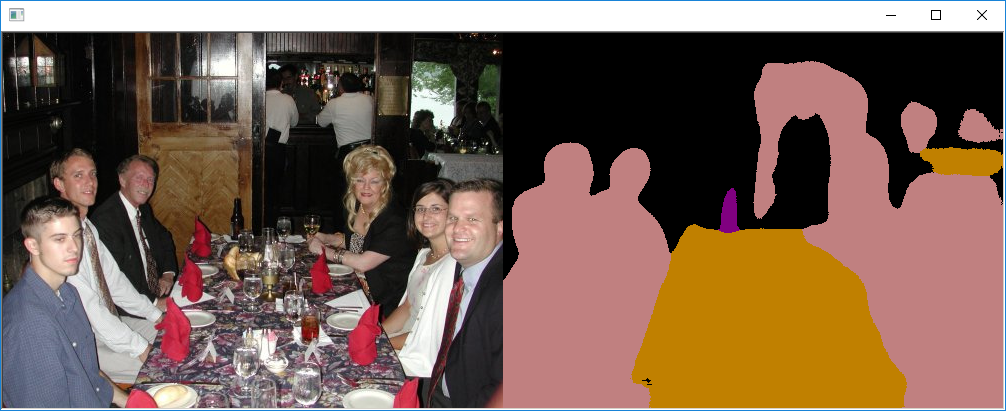
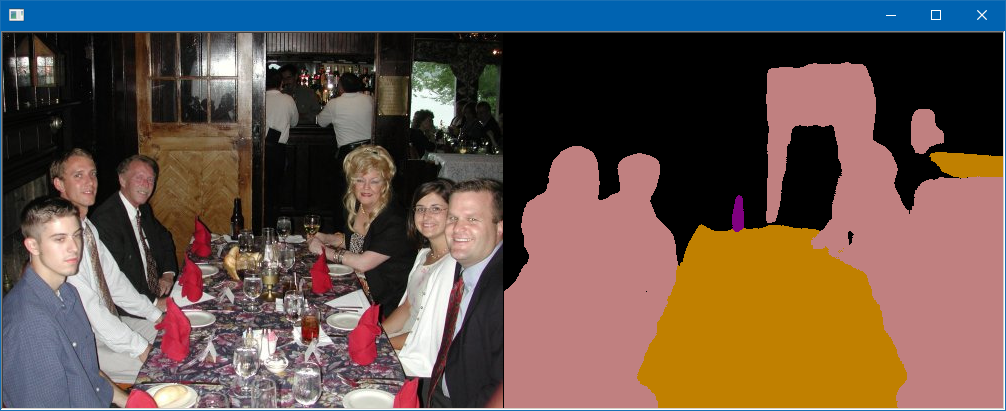
feat: modify sample for 19.17

diff --git a/examples/DnnSemanticSegmentation/Program.cs b/examples/DnnSemanticSegmentation/Program.cs
@@ -14,6 +14,8 @@ namespace DnnSemanticSegmentation
     internal class Program
     {
 
+        private const string SemanticSegmentationNetFilename = "semantic_segmentation_voc2012net_v2.dnn";
+
         public class Voc2012Class
         {
 
@@ -91,17 +93,17 @@ namespace DnnSemanticSegmentation
                 Console.WriteLine("You call this program like this: ");
                 Console.WriteLine("./dnn_semantic_segmentation_train_ex /path/to/images");
                 Console.WriteLine();
-                Console.WriteLine("You will also need a trained 'semantic_segmentation_voc2012net.dnn' file.");
+                Console.WriteLine($"You will also need a trained '{SemanticSegmentationNetFilename}' file.");
                 Console.WriteLine("You can either train it yourself (see example program");
                 Console.WriteLine("dnn_semantic_segmentation_train_ex), or download a");
-                Console.WriteLine("copy from here: http://dlib.net/files/semantic_segmentation_voc2012net.dnn");
+                Console.WriteLine($"copy from here: http://dlib.net/files/{SemanticSegmentationNetFilename}");
                 return;
             }
 
             try
             {
                 // Read the file containing the trained network from the working directory.
-                using (var net = LossMulticlassLogPerPixel.Deserialize("semantic_segmentation_voc2012net.dnn"))
+                using (var net = LossMulticlassLogPerPixel.Deserialize(SemanticSegmentationNetFilename, 3))
                 {
                     // Show inference results in a window.
                     using (var win = new ImageWindow())

diff --git a/examples/DnnSemanticSegmentation/README.md b/examples/DnnSemanticSegmentation/README.md
@@ -22,7 +22,7 @@ Please refer the [Tutorial for Linux](https://github.com/takuya-takeuchi/DlibDot
 
 Download test data from the following urls.
 
-- http://dlib.net/files/semantic_segmentation_voc2012net.dnn
+- http://dlib.net/files/semantic_segmentation_voc2012net_v2.dnn
 - &lt;dlib&gt;\examples\faces\*.jpg
 
 And extract them and copy to extracted files to &lt;DnnSemanticSegmentation_dir&gt;.
